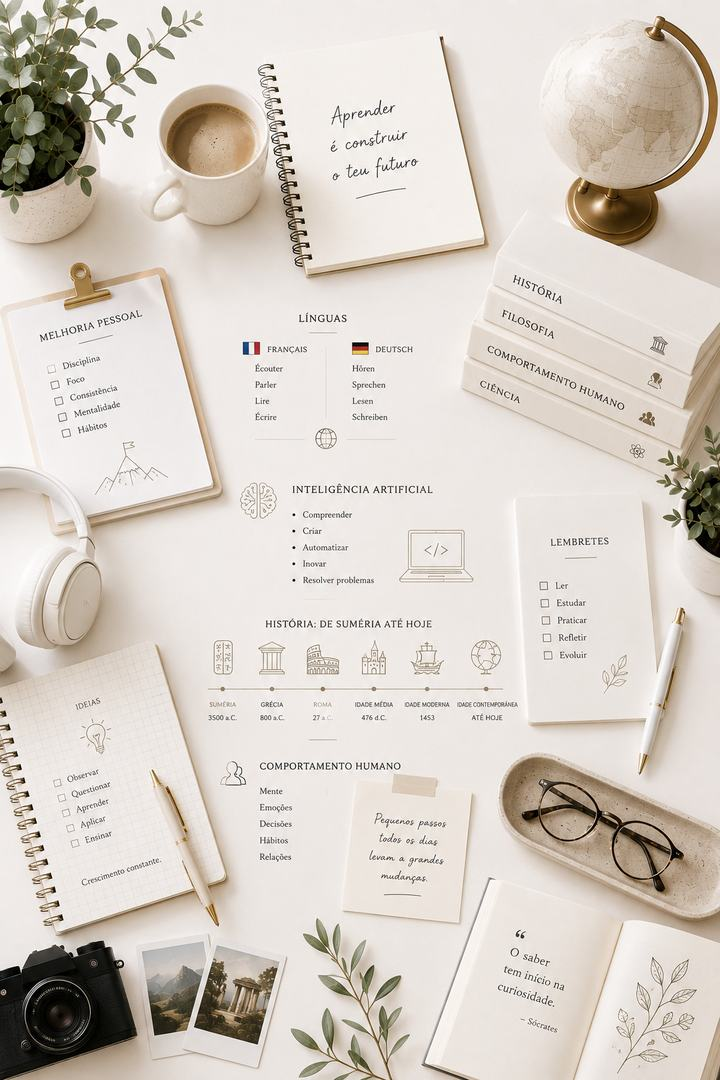
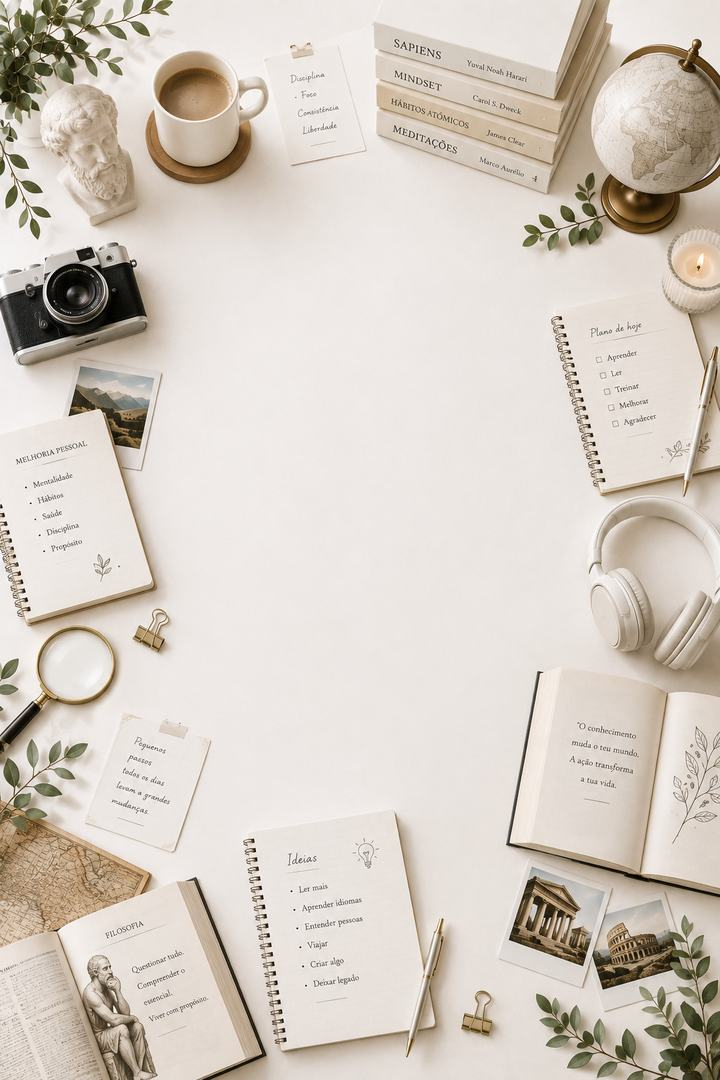
Add files via upload

diff --git a/public/sw.js b/public/sw.js
@@ -1,6 +1,6 @@
 /* Venera — offline. O que já leste continua a abrir sem rede. */
 
-const VERSAO = "venera-v57";
+const VERSAO = "venera-v58";
 const CASCA = ["/", "/index.html", "/app.js", "/manifest.json", "/icone.svg", "/jornal.jpg", "/leitura.jpg", "/notas.jpg", "/revisao.jpg", "/fundo-noticias.jpg"];
 
 self.addEventListener("install", (evento) => {
